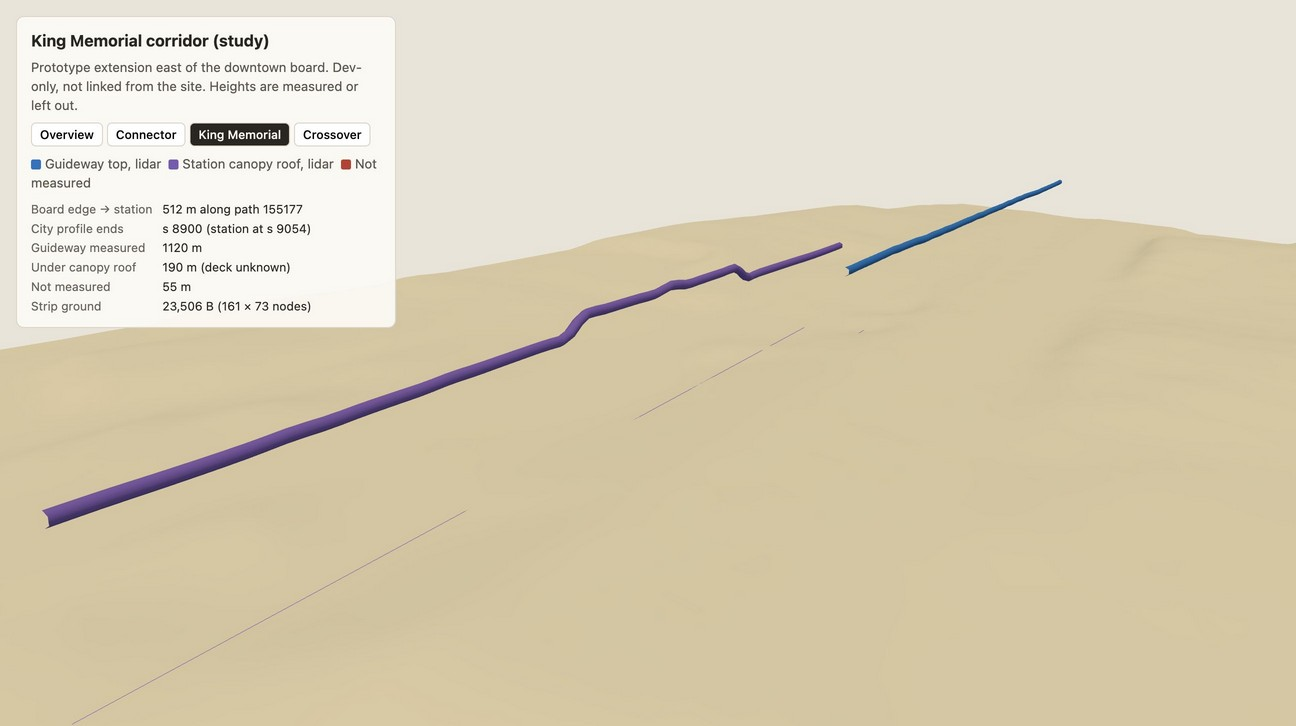
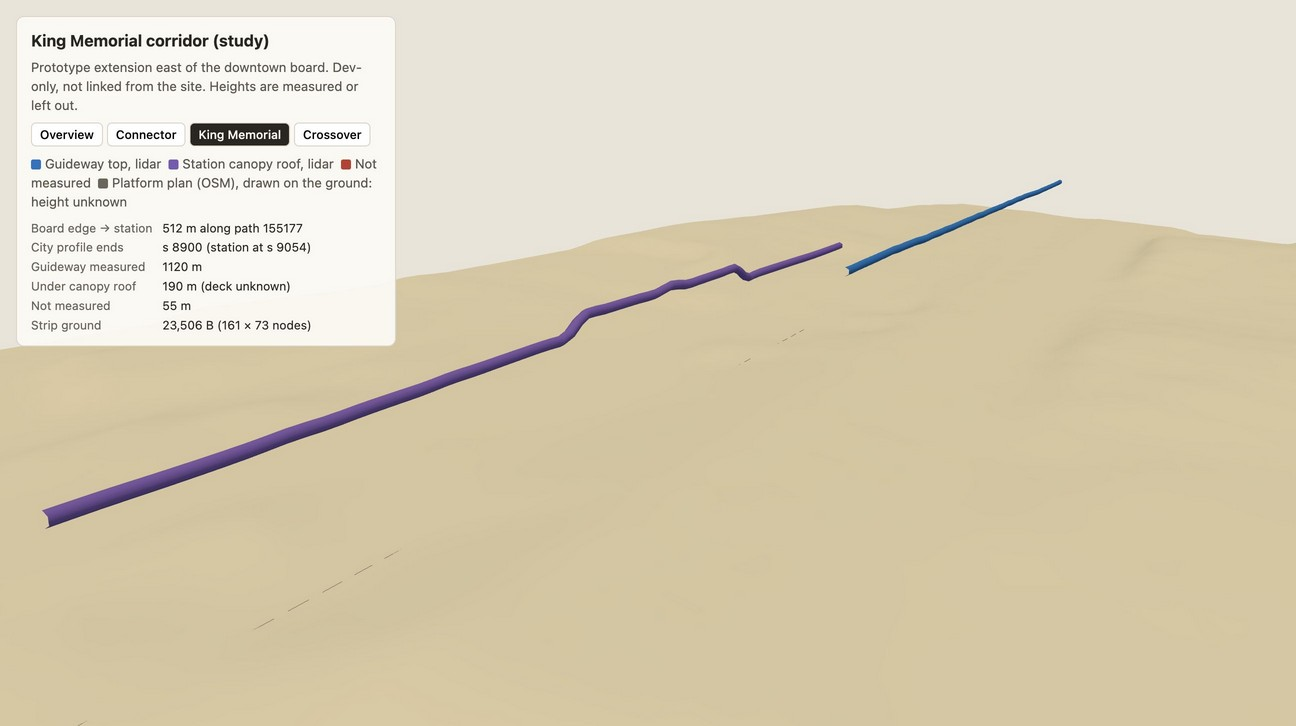
Corridor preview: draw platform plans as grey dashes on the ground, labelled height unknown

Changed region(s): [[0.0, 0.2424, 0.3086, 0.4848]]

diff --git a/web/src/corridor/preview.ts b/web/src/corridor/preview.ts
@@ -120,14 +120,16 @@ async function main() {
     post.position.set(c.x, y(c.groundNavd88M) + h / 2, c.z);
     scene.add(post);
   }
-  // Platforms as OSM draws them (lines), at the canopy's level only as a reference: their height is unknown.
+  // Platform plan only (OSM lines), drawn on the ground in grey dashes: their height is unknown.
   const project = makeProjector({ lon: -84.3916, lat: 33.7539 }); // ground.json horizontal origin (Five Points)
   for (const p of corridor.station.platforms) {
     const pts = p.ring.map(([lon, lat]) => {
       const [x, z] = project(lon, lat);
-      return new THREE.Vector3(x, (strip.grid.sample(x, z) ?? zero) - zero + 0.5, z);
+      return new THREE.Vector3(x, (strip.grid.sample(x, z) ?? zero) - zero + 0.05, z);
     });
-    scene.add(new THREE.Line(new THREE.BufferGeometry().setFromPoints(pts), new THREE.LineBasicMaterial({ color: '#7a5bb5' })));
+    const line = new THREE.Line(new THREE.BufferGeometry().setFromPoints(pts), new THREE.LineDashedMaterial({ color: '#6b665c', dashSize: 3, gapSize: 2 }));
+    line.computeLineDistances();
+    scene.add(line);
   }
 
   const facts = document.querySelector('#facts')!;

diff --git a/web/corridor.html b/web/corridor.html
@@ -29,7 +29,7 @@
     <h1>King Memorial corridor (study)</h1>
     <p>Prototype extension east of the downtown board. Dev-only, not linked from the site. Heights are measured or left out.</p>
     <div class="views" id="views"></div>
-    <p class="key"><span style="background:#1474c4"></span>Guideway top, lidar &nbsp;<span style="background:#7a5bb5"></span>Station canopy roof, lidar &nbsp;<span style="background:#c0392b"></span>Not measured</p>
+    <p class="key"><span style="background:#1474c4"></span>Guideway top, lidar &nbsp;<span style="background:#7a5bb5"></span>Station canopy roof, lidar &nbsp;<span style="background:#c0392b"></span>Not measured &nbsp;<span style="background:#6b665c"></span>Platform plan (OSM), drawn on the ground: height unknown</p>
     <dl id="facts"></dl>
   </section>
   <script type="module" src="/src/corridor/preview.ts"></script>

diff --git a/docs/king-memorial-corridor.md b/docs/king-memorial-corridor.md
@@ -87,8 +87,8 @@ The downtown board ends at x = 1000 (about −84.3808). King Memorial station (O
 In total: 1,120 m measured, 190 m under the roof, and 55 m unknown.
 
 **Preview** (`/corridor.html`, dev only). It shows the two ground meshes joined at the x = 1000
-seam, the measured guideway (blue), the canopy roof (purple) and red marks where nothing was
-measured:
+seam, the measured guideway (blue), the canopy roof (purple), red marks where nothing was measured, and the
+OSM platform plans as grey dashes on the ground, because their height is unknown:
 
 ![Overview](log/ui/king-memorial/preview-overview.jpg)
 ![King Memorial](log/ui/king-memorial/preview-king-memorial.jpg)
